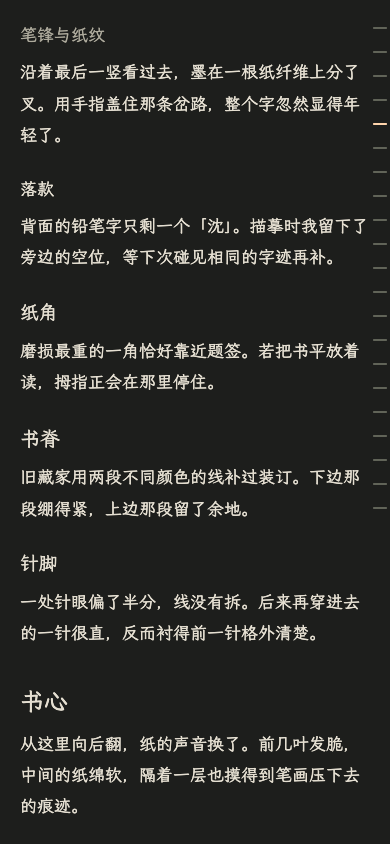
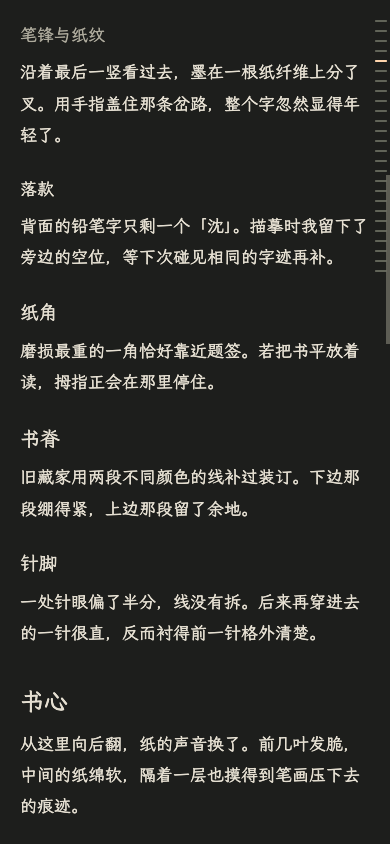
feat: tighten mini outline spacing and refine reading interactions

Changed region(s): [[0.9538, 0.0308, 1.0, 0.4621]]

diff --git a/src/styles/site.css b/src/styles/site.css
@@ -17,6 +17,9 @@
   --group-rule: 1px solid color-mix(in srgb, var(--line) 65%, var(--paper));
   --radius: 3px;
   --focus: 2px solid var(--accent);
+  --motion-ink: 100ms;
+  --motion-settle: 150ms;
+  --ease-settle: cubic-bezier(.2, .7, .2, 1);
   --regular: 400;
   --h1: 36px;
   --h2: 27px;

diff --git a/docs/m4.2/README.md b/docs/m4.2/README.md
@@ -10,7 +10,16 @@
 
 文章标题在列表、卡片和详情页均自然换行。详情页以一行小字排出日期、可选分类和标签。有标签时，用一个线描标签图标引出整组词，字号和墨色与日期一致。题名在下一行，与正文左边缘对齐。篇首末尾的一道细线标出正文阅读区的起点。摘要用于篇目列表、图文卡片、RSS 和网页元描述，进入文章后由作者的首段开篇。
 
-完整目录跟踪 H2 至 H6，以文字颜色和下划线提示当前章节。桌面迷你大纲与「全部文章」共用顶边和吸顶位置。刻度统一为 2px 粗，右端对齐。阅读时全部等长。鼠标进入大纲、键盘聚焦节点或触屏预览章名时，整列按 H2 至 H6 从长到短排列。鼠标下行距为 16px，触屏下保留 24px 命中高度。当前章在浅色纸上用暗朱红，在深色纸上用浅杏色。悬停或键盘聚焦可预览完整章名，点击或按 Enter 跳到该章。短表格填满正文宽度，超宽表格保留列宽，在可键盘聚焦的容器里横向浏览。表格、代码、目录和页面滚动条均采用细滑块与透明轨道。
+完整目录跟踪 H2 至 H6，以文字颜色和下划线提示当前章节。桌面迷你大纲与「全部文章」共用顶边和吸顶位置。刻度统一为 2px 粗，右端对齐。阅读时全部等长。鼠标进入大纲、键盘聚焦节点或触屏预览章名时，整列按 H2 至 H6 从长到短排列。桌面和触屏的节点中心间距均为 10px。当前章在浅色纸上用暗朱红，在深色纸上用浅杏色。悬停或键盘聚焦可预览完整章名，点击或按 Enter 跳到该章。短表格填满正文宽度，超宽表格保留列宽，在可键盘聚焦的容器里横向浏览。表格、代码、目录和页面滚动条均采用细滑块与透明轨道。
+
+## 交互动效
+
+| 交互 | 动效与取舍 |
+| --- | --- |
+| 迷你大纲 | 刻度在 150ms 内从固定右端伸缩，节点位置和点击区域恒定。当前章节的颜色在 100ms 内交接。章名提示首次出现时淡入，连续扫过相邻节点时就地换字。 |
+| 阅读设置 | 面板从按钮下方 3px 的距离进入，150ms 显现，100ms 收起。关闭时立即释放指针交互，键盘继续使用原生弹层的焦点逻辑。 |
+| 首页和分类篇目 | 指向标题或用键盘聚焦时，标题与下划线在 100ms 内显色。手动切入图文视图时，封面用 150ms 淡入。刷新恢复视图时直接显示存好的版式。 |
+| 正文和主题 | 章节跳转、正文滚动和整站换色即时生效，便于直接定位和连续阅读。所有新增过渡和动画仅在系统允许动态效果时启用。 |
 
 ## 新增预览样稿
 
@@ -24,7 +33,7 @@
 
 语法样张按块级和行内结构编写，扩展语法另行核对。[CommonMark 0.31.2](https://spec.commonmark.org/0.31.2/) · [GitHub Flavored Markdown](https://github.github.com/gfm/)
 
-迷你刻度的当前色与普通色在浅色主题为 `#650E08` 和 `#B6B6B0`，在深色主题为 `#FFDAB5` 和 `#6C6F63`。两色之间的相对亮度对比度分别为 6.36∶1 与 3.90∶1。桌面默认线长 20px，查看层级时从 32px 逐级减至 12px。单栏布局默认线长 14px，查看层级时从 20px 减至 8px。390px 触屏下，26 节大纲可独立滚动，正文实宽为 350px。
+迷你刻度的当前色与普通色在浅色主题为 `#650E08` 和 `#B6B6B0`，在深色主题为 `#FFDAB5` 和 `#6C6F63`。两色之间的相对亮度对比度分别为 6.36∶1 与 3.90∶1。静置时统一线长 12px。查看层级时，桌面从 32px 逐级减至 12px，单栏布局从 20px 减至 8px。390px 触屏下，26 节大纲共占 260px 高度，正文实宽为 350px。
 
 ## 截图与实测
 
